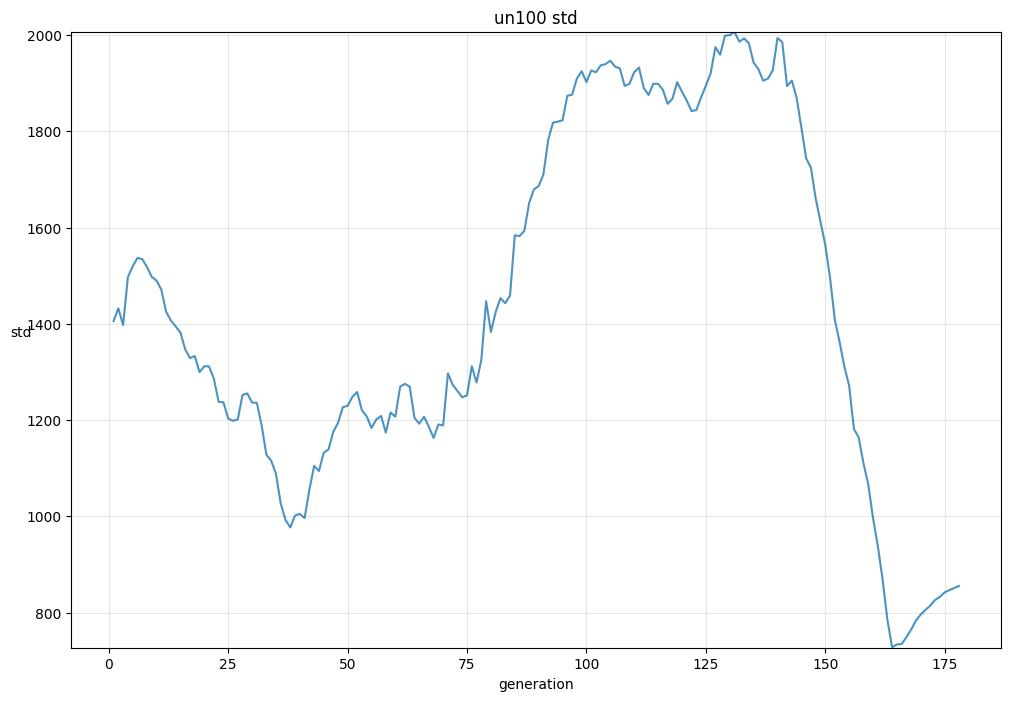
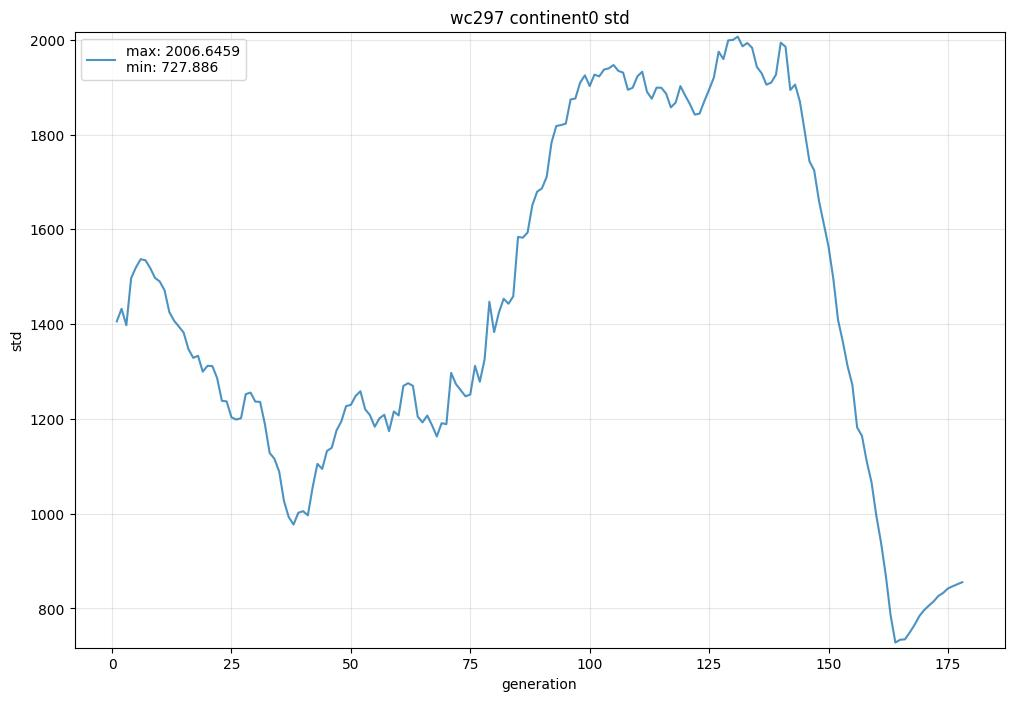
wc297 std 그래프 수정

diff --git a/data processing/GA run/ga-run-analyze.py b/data processing/GA run/ga-run-analyze.py
@@ -26,10 +26,11 @@ from math import ceil, floor
 # plt.figure(figsize=(12, 8))  # 그래프 크기
 # plt.grid(alpha=0.3)  # 그리드 투명도
 # plt.plot(data.index, data['std'], alpha=0.8)
-# plt.title(f"un100 {'std'}")  # 그래프 제목에 괄호 치고 분산 표기
-# plt.ylim(floor(data['std'].min()), ceil(data['std'].max()))  # y 값 범위 제한
+# plt.title("wc297 continent2 std")
+# plt.ylim(floor(data['std'].min()) - 10, ceil(data['std'].max()) + 10)  # y 값 범위 제한
 # plt.xlabel('generation')
-# plt.ylabel('std', rotation='horizontal')
+# plt.ylabel('std')
+# plt.legend([f'max: {data["std"].max()}\nmin: {data["std"].min()}'], loc='upper left')
 # plt.savefig(rf'data processing\island GA\images\stat\wc297-cont2-std.jpg', bbox_inches='tight')
 
 columns = ['count', 'mean', 'std', 'min', '25%', '50%', '75%', 'max']
